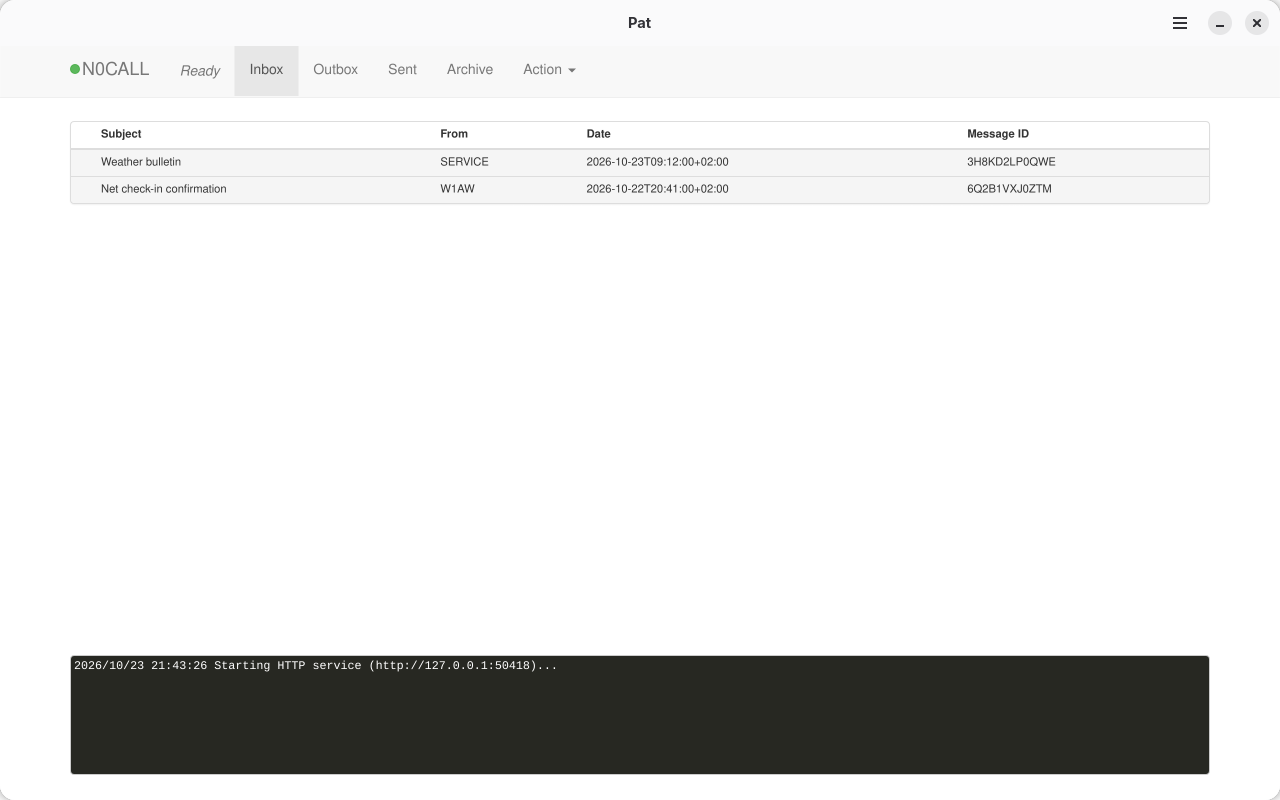
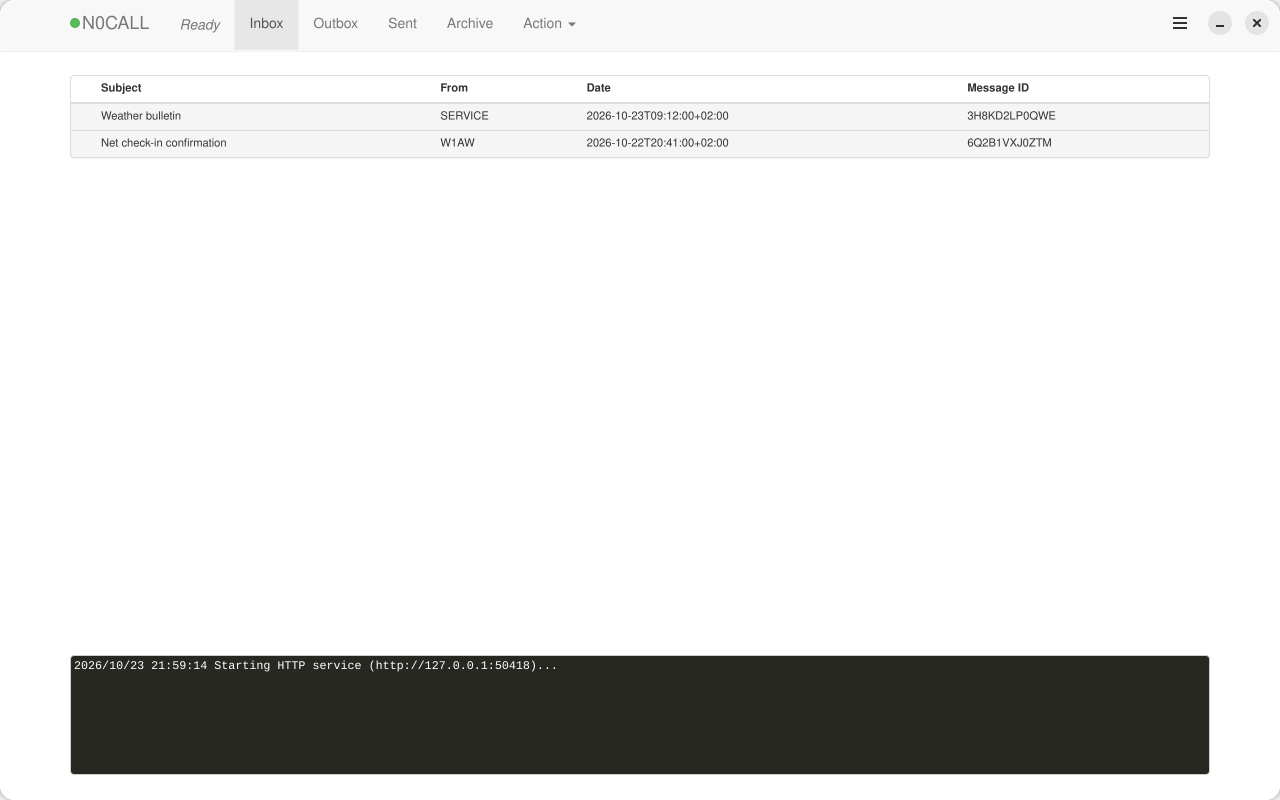
Merge the window chrome into Pat's navbar
Drop the header bar. The main menu and window buttons float over the
right end of Pat's top navbar, a page script turns the navbar's empty
stretches into native window drag handles, and Pat's navbar container
is padded only as much as needed to stay clear of the buttons.

diff --git a/pat_desktop/chrome.py b/pat_desktop/chrome.py
@@ -1,0 +1,164 @@
+# SPDX-License-Identifier: GPL-3.0-or-later
+"""Window chrome merged into Pat's own navigation bar.
+
+Instead of a header bar above Pat's UI, the window controls and the main menu
+float over the right end of Pat's top navbar, and the empty parts of that
+navbar move the window like a title bar does.
+"""
+
+import json
+
+from gi.repository import Gtk, WebKit
+
+HANDLER = "patDesktopNavbar"
+
+# Reports the empty horizontal stretches of Pat's fixed top navbar, which the
+# window turns into drag areas. Empty while a Bootstrap modal is open, so its
+# backdrop still closes it.
+NAVBAR_SCRIPT = """
+(() => {
+  const INTERACTIVE = 'a, button, input, select, textarea, label, [role=button], [data-toggle]';
+  const MIN_SPAN = 8;
+  const BASE_PADDING = 15;  // Bootstrap's own container padding
+  let queued = false;
+
+  // Pad Pat's navbar container just enough to keep its items clear of the
+  // window controls, whose width the app publishes as a CSS variable.
+  function makeRoom(nav) {
+    const container = nav.querySelector(':scope > .container, :scope > .container-fluid');
+    if (!container) return;
+    const controls = parseFloat(getComputedStyle(document.documentElement)
+      .getPropertyValue('--pat-desktop-controls')) || 0;
+    const free = window.innerWidth - container.getBoundingClientRect().right;
+    const padding = BASE_PADDING + Math.max(0, Math.ceil(controls - free));
+    if (container.style.paddingRight !== padding + 'px') {
+      container.style.paddingRight = padding + 'px';
+    }
+  }
+
+  function report() {
+    queued = false;
+    const nav = document.querySelector('.navbar-fixed-top');
+    const msg = { spans: [] };
+    if (nav) makeRoom(nav);
+    if (nav && !document.body.classList.contains('modal-open')) {
+      const n = nav.getBoundingClientRect();
+      const holes = [...nav.querySelectorAll(INTERACTIVE)]
+        .map(e => e.getBoundingClientRect())
+        .filter(r => r.width > 0 && r.height > 0 && r.bottom > n.top && r.top < n.bottom)
+        .map(r => [r.left, r.right])
+        .sort((a, b) => a[0] - b[0]);
+      let x = n.left;
+      for (const [left, right] of holes) {
+        if (left - x >= MIN_SPAN) msg.spans.push([x, left - x]);
+        x = Math.max(x, right);
+      }
+      if (n.right - x >= MIN_SPAN) msg.spans.push([x, n.right - x]);
+      msg.top = n.top;
+      msg.height = n.height;
+    }
+    window.webkit.messageHandlers.%s.postMessage(JSON.stringify(msg));
+  }
+
+  const schedule = () => {
+    if (!queued) { queued = true; requestAnimationFrame(report); }
+  };
+  addEventListener('resize', schedule);
+  addEventListener('load', schedule);
+  document.addEventListener('DOMContentLoaded', () => {
+    const watch = { subtree: true, childList: true, attributes: true, characterData: true };
+    const nav = document.querySelector('.navbar-fixed-top');
+    if (nav) new MutationObserver(schedule).observe(nav, watch);
+    new MutationObserver(schedule).observe(document.body, { attributes: true, attributeFilter: ['class'] });
+    schedule();
+  });
+})();
+""" % HANDLER
+
+# Publishes the width of the window controls to the page (see makeRoom()).
+CONTROLS_CSS = ":root { --pat-desktop-controls: %dpx; }"
+CONTROLS_MARGIN = 6
+
+
+class NavbarChrome:
+    """Puts `menu` and the window controls over Pat's navbar in `webview`.
+
+    `page` is what the window shows (it contains the web view), `web_overlay`
+    wraps just the web view and holds the drag areas.
+    """
+
+    def __init__(self, webview, content_manager, page, menu):
+        self.webview = webview
+        self.content = content_manager
+        self._handles = []
+        self._last_spans = None
+
+        self.web_overlay = Gtk.Overlay(child=webview)
+
+        # A header bar would keep its two halves equally wide to centre the
+        # title, doubling its width, so this is a plain box with the same
+        # native window buttons, in the order of the desktop's button layout.
+        box = Gtk.Box(spacing=6, margin_start=CONTROLS_MARGIN, margin_end=CONTROLS_MARGIN,
+                      valign=Gtk.Align.CENTER)
+        box.append(Gtk.WindowControls(side=Gtk.PackType.START))
+        menu_button = Gtk.MenuButton(icon_name="open-menu-symbolic", menu_model=menu,
+                                     primary=True, tooltip_text="Main Menu")
+        menu_button.add_css_class("flat")
+        box.append(menu_button)
+        box.append(Gtk.WindowControls(side=Gtk.PackType.END))
+        self.controls = Gtk.WindowHandle(child=box, halign=Gtk.Align.END,
+                                         valign=Gtk.Align.START)
+        self.overlay = Gtk.Overlay(child=page)
+        self.overlay.add_overlay(self.controls)
+
+        content_manager.add_script(WebKit.UserScript.new(
+            NAVBAR_SCRIPT, WebKit.UserContentInjectedFrames.TOP_FRAME,
+            WebKit.UserScriptInjectionTime.START, None, None))
+        content_manager.register_script_message_handler(HANDLER, None)
+        content_manager.connect(f"script-message-received::{HANDLER}", self._on_navbar)
+        webview.connect("notify::zoom-level", lambda *_: self.update_padding())
+        Gtk.Settings.get_default().connect("notify::gtk-decoration-layout",
+                                           lambda *_: self.update_padding())
+
+    def update_padding(self):
+        """Publish the controls' width (in CSS pixels) to Pat's page."""
+        width = self.controls.measure(Gtk.Orientation.HORIZONTAL, -1)[1]
+        css = CONTROLS_CSS % round(width / self.webview.get_zoom_level())
+        self.content.remove_all_style_sheets()
+        self.content.add_style_sheet(WebKit.UserStyleSheet.new(
+            css, WebKit.UserContentInjectedFrames.TOP_FRAME,
+            WebKit.UserStyleLevel.USER, None, None))
+
+    def _on_navbar(self, _manager, value):
+        try:
+            data = json.loads(value.to_string())
+        except ValueError:
+            return
+        zoom = self.webview.get_zoom_level()
+        limit = self.web_overlay.get_width() - self.controls.get_width()
+        spans = []
+        for x, width in data.get("spans", []):
+            x, width = round(x * zoom), round(width * zoom)
+            width = min(width, limit - x)
+            if width > 0:
+                spans.append((x, width))
+        top = round(data.get("top", 0) * zoom)
+        height = round(data.get("height", 0) * zoom)
+        if height:
+            # Centre the controls on Pat's navbar.
+            own = self.controls.measure(Gtk.Orientation.VERTICAL, -1)[1]
+            self.controls.set_margin_top(max(0, top + (height - own) // 2))
+        key = (tuple(spans), top, height)
+        if key == self._last_spans:
+            return
+        self._last_spans = key
+
+        for handle in self._handles:
+            self.web_overlay.remove_overlay(handle)
+        self._handles = []
+        for x, width in spans:
+            handle = Gtk.WindowHandle(halign=Gtk.Align.START, valign=Gtk.Align.START,
+                                      margin_start=x, margin_top=top,
+                                      width_request=width, height_request=height)
+            self.web_overlay.add_overlay(handle)
+            self._handles.append(handle)

diff --git a/pat_desktop/window.py b/pat_desktop/window.py
@@ -15,6 +15,7 @@ gi.require_version("Soup", "3.0")
 from gi.repository import Adw, Gio, GLib, Gtk, Soup, WebKit  # noqa: E402
 
 from . import state  # noqa: E402
+from .chrome import NavbarChrome  # noqa: E402
 
 STATUS_POLL_S = 3
 ZOOM_STEPS = [0.5, 0.67, 0.75, 0.8, 0.9, 1.0, 1.1, 1.25, 1.5, 1.75, 2.0]
@@ -59,6 +60,9 @@ class PatWindow(Adw.ApplicationWindow):
         self._popups = set()
 
         self.set_default_size(state.get("width", 1100), state.get("height", 760))
+        # Narrower than this, Pat collapses its navbar into its own menu button,
+        # which would end up under the window controls.
+        self.set_size_request(800, 480)
         if state.get("maximized"):
             self.maximize()
 
@@ -73,31 +77,25 @@ class PatWindow(Adw.ApplicationWindow):
     # UI -------------------------------------------------------------------
 
     def _build_ui(self):
-        self.title = Adw.WindowTitle(title="Pat")
-        header = Adw.HeaderBar(title_widget=self.title)
-
-
-        menu = Gio.Menu()
+        self.menu = Gio.Menu()
         section = Gio.Menu()
         section.append(_("Pat _Configuration"), "win.configure")
         section.append(_("_Reload"), "win.reload")
-        menu.append_section(None, section)
+        self.menu.append_section(None, section)
         zoom = Gio.Menu()
         zoom.append(_("Zoom _In"), "win.zoom-in")
         zoom.append(_("Zoom _Out"), "win.zoom-out")
         zoom.append(_("_Reset Zoom"), "win.zoom-reset")
-        menu.append_section(None, zoom)
+        self.menu.append_section(None, zoom)
         section = Gio.Menu()
         section.append(_("Show _Log"), "win.show-log")
         section.append(_("Open _Data Folder"), "win.open-data")
         section.append(_("Re_start Pat"), "win.restart")
-        menu.append_section(None, section)
+        self.menu.append_section(None, section)
         section = Gio.Menu()
         section.append(_("_Keyboard Shortcuts"), "app.shortcuts")
         section.append(_("_About Pat Desktop"), "app.about")
-        menu.append_section(None, section)
-        header.pack_end(Gtk.MenuButton(icon_name="open-menu-symbolic", menu_model=menu,
-                                       primary=True, tooltip_text=_("Main Menu")))
+        self.menu.append_section(None, section)
 
         self.stack = Gtk.Stack(transition_type=Gtk.StackTransitionType.CROSSFADE)
 
@@ -124,11 +122,6 @@ class PatWindow(Adw.ApplicationWindow):
         self.error_page.set_child(buttons)
         self.stack.add_named(self.error_page, "error")
 
-        toolbar = Adw.ToolbarView(content=self.stack)
-        toolbar.add_top_bar(header)
-        self.toasts = Adw.ToastOverlay(child=toolbar)
-        self.set_content(self.toasts)
-
     def _build_webview(self):
         data_dir, cache_dir = _web_dirs()
         self.session = WebKit.NetworkSession.new(data_dir, cache_dir)
@@ -150,7 +143,12 @@ class PatWindow(Adw.ApplicationWindow):
         self.webview.set_zoom_level(state.get("zoom", 1.0))
         self.webview.connect("load-failed", self._on_load_failed)
         self.webview.connect("web-process-terminated", lambda v, _r: v.reload())
-        self.stack.add_named(self.webview, "web")
+
+        # No header bar: the controls float over Pat's own navbar.
+        self.chrome = NavbarChrome(self.webview, self.content, self.stack, self.menu)
+        self.stack.add_named(self.chrome.web_overlay, "web")
+        self.toasts = Adw.ToastOverlay(child=self.chrome.overlay)
+        self.set_content(self.toasts)
 
     def _setup_view(self, view):
         settings = view.get_settings()
@@ -196,6 +194,7 @@ class PatWindow(Adw.ApplicationWindow):
 
     def _on_backend_ready(self, _backend):
         self._grant_notifications()
+        self.chrome.update_padding()
         self.webview.load_uri(self.backend.base_url + "/ui")
         self.stack.set_visible_child_name("web")
         if not self._status_id:
@@ -240,17 +239,6 @@ class PatWindow(Adw.ApplicationWindow):
 
     def _set_status(self, status):
         self._status = status
-        if not status:
-            subtitle = ""
-        elif status.get("connected"):
-            subtitle = _("Connected to {}").format(status.get("remote_addr") or "?")
-        elif status.get("dialing"):
-            subtitle = _("Connecting…")
-        elif status.get("active_listeners"):
-            subtitle = _("Listening: {}").format(", ".join(status["active_listeners"]))
-        else:
-            subtitle = ""
-        self.title.set_subtitle(subtitle)
 
     # Navigation and windows ----------------------------------------------
 

diff --git a/docs/ARCHITECTURE.md b/docs/ARCHITECTURE.md
@@ -81,6 +81,7 @@ the Pat and libax25 pins. Both formats build from it:
 | Links to other sites | Opened in the default browser through the portal |
 | Downloads and attachments | Native save dialog through the portal |
 | HTML5 notifications | Sent as desktop notifications |
+| Window chrome | No header bar. The menu and window buttons float over the right end of Pat's top navbar. A page script reports the navbar's empty stretches, which become native drag handles (drag, double-click to maximise, right-click menu), and pads the navbar just enough to keep Pat's items clear of the buttons. Minimum window width is 800 px, because below 768 px Pat folds its navbar into its own menu button |
 | "New Pat version" prompt | `/api/new-release-check` is blocked with a WebKit content filter. Updates arrive through the app instead |
 
 ## Known limitations

diff --git a/CHANGELOG.md b/CHANGELOG.md
@@ -14,6 +14,7 @@ First release, bundling Pat 1.0.0.
 ### Added
 
 - Desktop window for Pat that starts and stops Pat automatically, with no terminal or browser needed.
+- Pat's own top bar doubles as the title bar: the menu and window buttons sit at its right end, and its empty space drags the window.
 - First launch opens Pat's configuration for callsign, radio and modems. It is also available from the menu.
 - Winlink forms open in their own windows. Attachments are saved with the file dialog, and external links open in the browser.
 - Desktop notifications for Pat's alerts.
